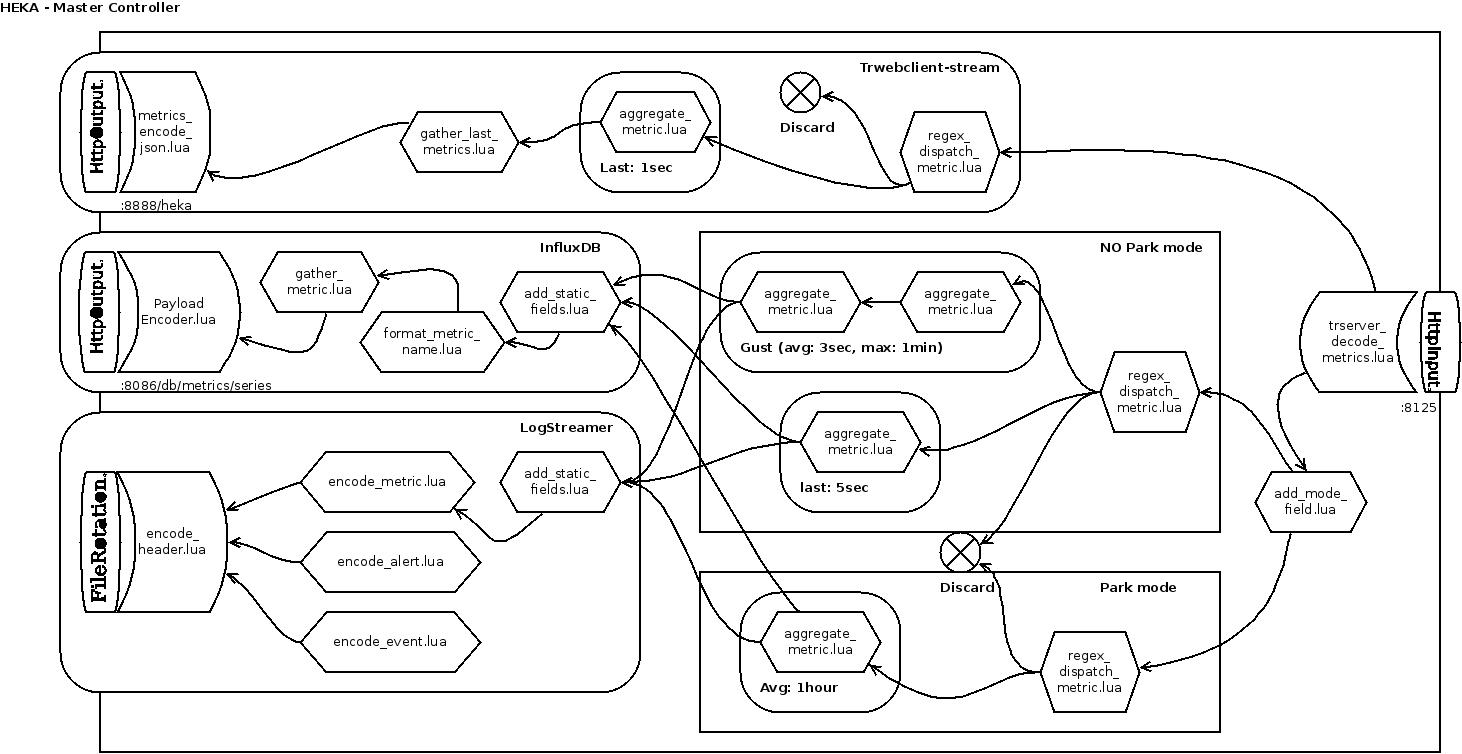
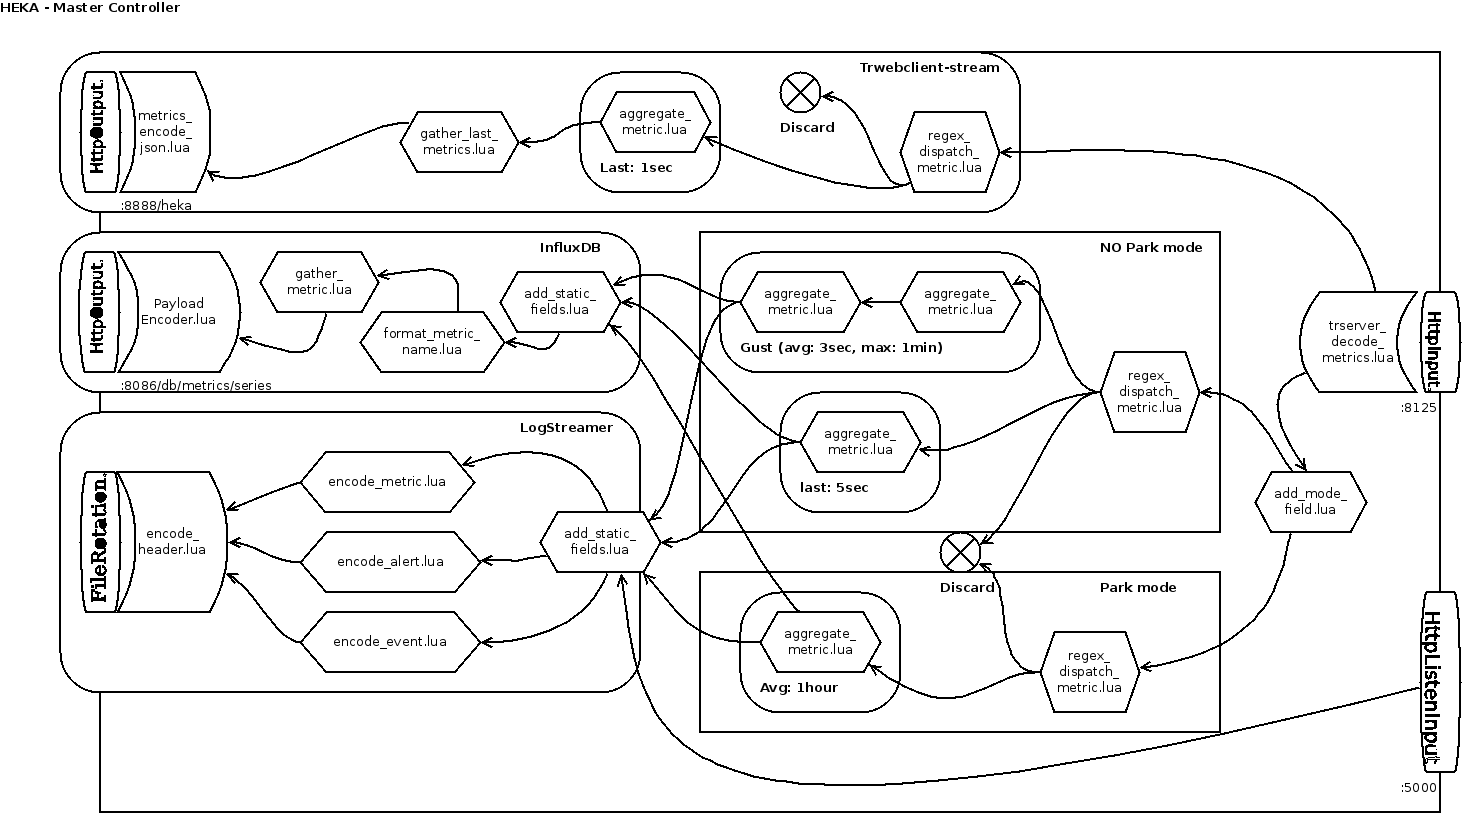
use HTTPListenInput instead of UpdOutput

diff --git a/test/test.py b/test/test.py
@@ -10,6 +10,7 @@ import shutil
 HEKA_IP = 'localhost'
 HEKA_INPUT_PORT = 5007
 HEKA_OUTPUT_PORT = 5005
+MAX_BYTES = 5000
 
 def setUpModule():
     global PROC
@@ -27,7 +28,7 @@ class HekaTestCase(unittest.TestCase):
         self.heka_output.sendto(json.dumps(msg)+'\n', (HEKA_IP, HEKA_OUTPUT_PORT))
 
     def receive_msg(self):
-        data, _ = self.heka_input.recvfrom(5000)
+        data, _ = self.heka_input.recvfrom(MAX_BYTES)
         return json.loads(data)
 
     @classmethod
@@ -687,7 +688,7 @@ message_matcher = "Type == 'heka.sandbox.encode.log.event'"
         self.heka_output.sendto(msg, (HEKA_IP, 5004))
 
     def receive_msg(self):
-        data, _ = self.heka_input.recvfrom(5000)
+        data, _ = self.heka_input.recvfrom(MAX_BYTES)
         return data
 
     def test_sandbox_metric(self):
